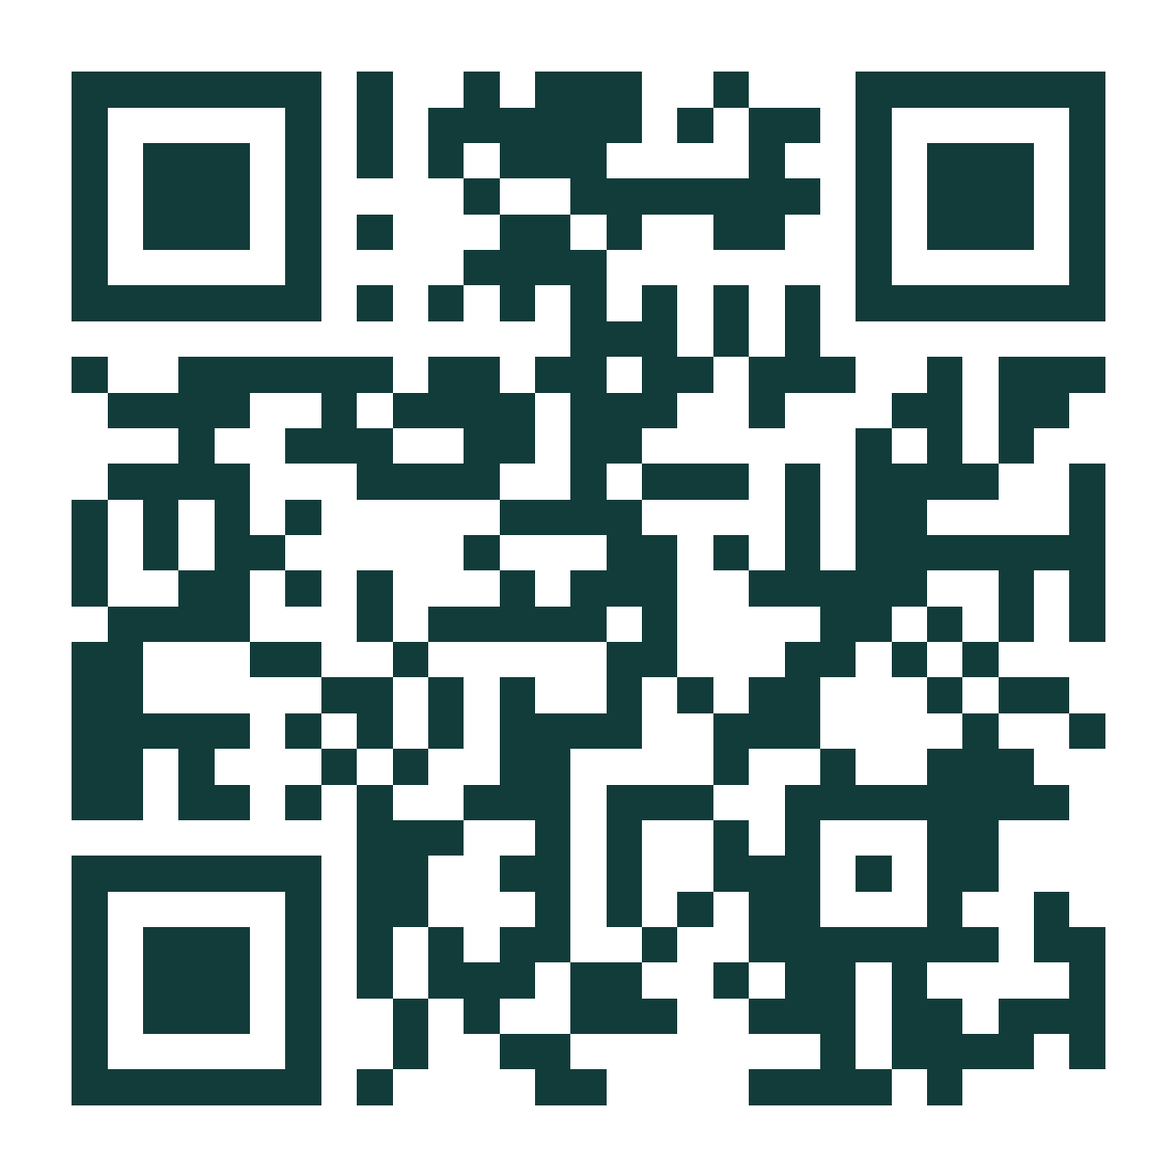
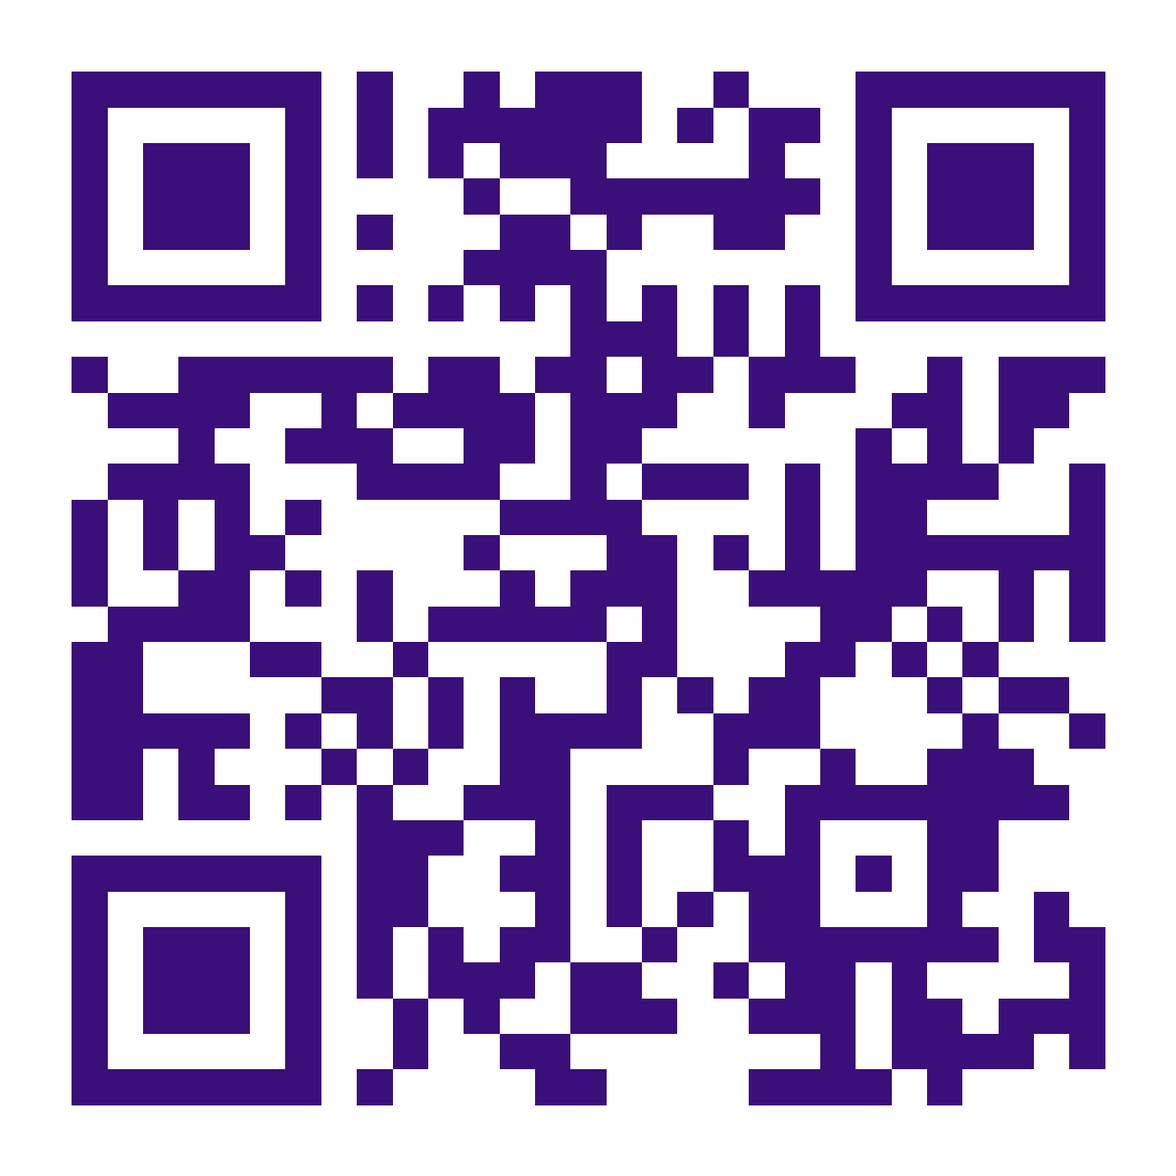
Paleta morada de la marca ESCALA
- Colores en variables: --marca (morado), acento lila y superficies
  oscuras con degradado morado; verde y rojo se mantienen para
  entradas/salidas y ganancia/pérdida.
- Ícono, color del navegador y QR en morado.

diff --git a/src/estilos.css b/src/estilos.css
@@ -1,19 +1,30 @@
 :root {
-  --tinta: #123c3a;
-  --tinta-2: #3d5f5c;
-  --tinta-3: #6e8784;
-  --fondo: #f6f1e7;
-  --papel: #fffdf8;
-  --linea: #e4dccb;
-  --sol: #ffc94a;
-  --sol-claro: #fff1c7;
+  /* Marca ESCALA: morado. Para ajustar el tono, cambia --marca (y --marca-oscura, su sombra). */
+  --marca: #6d28d9;
+  --marca-oscura: #4c1d95;
+  --tinta: #26124f;          /* textos */
+  --superficie-marca: linear-gradient(160deg, #5b21b6 0%, #3b0f7a 100%); /* cabeceras y tarjetas oscuras */
+  --tinta-2: #4f4270;
+  --tinta-3: #7f7699;
+  --acento: #c4a5ff;         /* lila: avance, precio destacado, opción elegida */
+  --acento-oscuro: #9d74f0;
+  --acento-claro: #efe6ff;
+  --sobre-oscuro: #d8ccf2;   /* texto claro sobre fondo morado */
+  --sobre-oscuro-2: #bba9e0;
+  --fondo: #f5f2fa;
+  --papel: #fdfcff;
+  --linea: #e3dcef;
+  --pista: #ece6f5;
+  --desactivado: #c9c1d9;
+  --desactivado-texto: #f4f1f9;
+  /* Colores con significado: se mantienen */
   --verde: #1f8a5b;
   --verde-claro: #e2f4ea;
   --rojo: #c2412d;
   --rojo-claro: #fbe6e1;
   --ambar-claro: #fff4dc;
   --radio: 16px;
-  --sombra: 0 2px 0 rgba(18, 60, 58, 0.08);
+  --sombra: 0 2px 0 rgba(38, 18, 79, 0.08);
   font-family: 'Nunito', system-ui, -apple-system, 'Segoe UI', Roboto, sans-serif;
   color: var(--tinta);
   background: var(--fondo);
@@ -34,7 +45,7 @@ h1, h2, p { margin: 0; }
 
 /* ---------- Logo ---------- */
 .logo { display: inline-flex; align-items: center; gap: 8px; font-weight: 900; letter-spacing: 0.08em; font-size: 16px; }
-.logo svg { width: 24px; height: 24px; fill: var(--sol); }
+.logo svg { width: 24px; height: 24px; fill: var(--acento); }
 .logo--grande { font-size: 28px; gap: 12px; }
 .logo--grande svg { width: 44px; height: 44px; }
 
@@ -42,10 +53,10 @@ h1, h2, p { margin: 0; }
 .inicio {
   min-height: 100dvh; display: flex; flex-direction: column; gap: 18px;
   padding: 36px 24px calc(24px + env(safe-area-inset-bottom));
-  background: var(--tinta); color: var(--papel);
+  background: var(--superficie-marca); color: var(--papel);
 }
 .inicio h1 { font-size: 36px; line-height: 1.1; font-weight: 900; margin-top: 20px; }
-.inicio p { color: #cfe0dc; }
+.inicio p { color: var(--sobre-oscuro); }
 .inicio__lista { list-style: none; padding: 0; margin: 0; display: grid; gap: 10px; }
 .inicio__lista li {
   display: flex; gap: 12px; align-items: center; font-weight: 700;
@@ -53,13 +64,13 @@ h1, h2, p { margin: 0; }
 }
 .inicio__lista span { font-size: 24px; }
 .inicio__nota { font-size: 15px; margin-top: auto !important; }
-.inicio .btn--principal { background: var(--sol); color: var(--tinta); }
+.inicio .btn--principal { background: var(--acento); color: var(--tinta); }
 
 /* ---------- Marco ---------- */
 .marco { min-height: 100dvh; display: flex; flex-direction: column; }
 .barra {
   position: sticky; top: 0; z-index: 5; display: flex; align-items: center; gap: 12px;
-  padding: 10px 16px; background: var(--tinta); color: var(--papel);
+  padding: 10px 16px; background: var(--superficie-marca); color: var(--papel);
 }
 .btn-atras {
   flex: none; width: 48px; height: 48px; border-radius: 12px; border: 0;
@@ -68,16 +79,16 @@ h1, h2, p { margin: 0; }
 .btn-atras--vacio { background: none; }
 .barra__centro { flex: 1; min-width: 0; }
 .barra__texto { display: flex; justify-content: space-between; gap: 8px; font-size: 14px; margin-bottom: 6px; }
-.barra__texto span { color: #b9cfcb; }
+.barra__texto span { color: var(--sobre-oscuro-2); }
 .barra__texto strong { white-space: nowrap; overflow: hidden; text-overflow: ellipsis; }
 .avance { display: grid; grid-template-columns: repeat(7, 1fr); gap: 4px; }
 .avance span { height: 6px; border-radius: 3px; background: rgba(255, 255, 255, 0.18); }
-.avance span.hecho { background: var(--sol); }
+.avance span.hecho { background: var(--acento); }
 
 .contenido { flex: 1; padding: 22px 18px 28px; display: flex; flex-direction: column; gap: 18px; }
 .pie {
   position: sticky; bottom: 0; z-index: 5; padding: 12px 18px calc(12px + env(safe-area-inset-bottom));
-  background: linear-gradient(to top, var(--fondo) 75%, rgba(246, 241, 231, 0));
+  background: linear-gradient(to top, var(--fondo) 75%, rgba(245, 242, 250, 0));
 }
 .pie__aviso { text-align: center; font-size: 15px; color: var(--tinta-2); margin-bottom: 8px; }
 
@@ -93,9 +104,9 @@ h1, h2, p { margin: 0; }
   display: block; width: 100%; min-height: 58px; border: 0; border-radius: var(--radio);
   font-weight: 800; font-size: 19px; padding: 14px 18px;
 }
-.btn--principal { background: var(--tinta); color: var(--papel); box-shadow: 0 4px 0 #0a2423; }
-.btn--principal:active { transform: translateY(2px); box-shadow: 0 2px 0 #0a2423; }
-.btn--principal:disabled { background: #b9c4bf; box-shadow: none; color: #eef1ef; cursor: not-allowed; }
+.btn--principal { background: var(--marca); color: #fff; box-shadow: 0 4px 0 var(--marca-oscura); }
+.btn--principal:active { transform: translateY(2px); box-shadow: 0 2px 0 var(--marca-oscura); }
+.btn--principal:disabled { background: var(--desactivado); box-shadow: none; color: var(--desactivado-texto); cursor: not-allowed; }
 .btn--suave { background: var(--papel); border: 2px solid var(--linea); color: var(--tinta); }
 .btn--texto { background: none; color: var(--tinta-3); font-weight: 700; min-height: 48px; }
 .btn--whatsapp { background: #1fa855; color: #fff; box-shadow: 0 4px 0 #147a3c; }
@@ -107,9 +118,9 @@ h1, h2, p { margin: 0; }
   background: var(--papel); border: 2px solid var(--linea); border-radius: var(--radio);
   padding: 18px 16px; font-weight: 800; font-size: 20px; box-shadow: var(--sombra);
 }
-.rubro:active { background: var(--sol-claro); }
-.rubro--elegido { border-color: var(--tinta); }
-.rubro__emoji { font-size: 36px; width: 52px; height: 52px; display: grid; place-items: center; background: var(--sol-claro); border-radius: 14px; }
+.rubro:active { background: var(--acento-claro); }
+.rubro--elegido { border-color: var(--marca); }
+.rubro__emoji { font-size: 36px; width: 52px; height: 52px; display: grid; place-items: center; background: var(--acento-claro); border-radius: 14px; }
 .rubro__nombre { flex: 1; }
 .rubro__flecha { color: var(--tinta-3); }
 
@@ -119,13 +130,13 @@ h1, h2, p { margin: 0; }
   color: var(--tinta); font-weight: 800; text-decoration: underline; text-underline-offset: 4px;
 }
 .ayuda__icono {
-  width: 28px; height: 28px; border-radius: 50%; background: var(--sol); display: grid; place-items: center;
+  width: 28px; height: 28px; border-radius: 50%; background: var(--acento); display: grid; place-items: center;
   font-weight: 900; text-decoration: none;
 }
 .ayuda__caja {
-  margin-top: 8px; background: var(--sol-claro); border-radius: var(--radio); padding: 14px 16px; font-size: 17px;
+  margin-top: 8px; background: var(--acento-claro); border-radius: var(--radio); padding: 14px 16px; font-size: 17px;
 }
-.aprende { border-left: 5px solid var(--sol); background: var(--papel); border-radius: 0 var(--radio) var(--radio) 0; padding: 12px 14px; font-size: 16px; }
+.aprende { border-left: 5px solid var(--acento); background: var(--papel); border-radius: 0 var(--radio) var(--radio) 0; padding: 12px 14px; font-size: 16px; }
 .aprende__etiqueta { display: block; font-size: 12px; font-weight: 900; text-transform: uppercase; letter-spacing: 0.08em; color: var(--tinta-3); margin-bottom: 2px; }
 
 /* ---------- Campos ---------- */
@@ -136,7 +147,7 @@ h1, h2, p { margin: 0; }
   display: flex; align-items: center; gap: 8px; background: #fff; border: 2px solid var(--linea);
   border-radius: 12px; padding: 0 14px; min-height: 52px;
 }
-.campo__caja:focus-within { border-color: var(--tinta); box-shadow: 0 0 0 3px var(--sol-claro); }
+.campo__caja:focus-within { border-color: var(--marca); box-shadow: 0 0 0 3px var(--acento-claro); }
 .campo__prefijo, .campo__sufijo { color: var(--tinta-3); font-weight: 700; }
 .campo input { flex: 1; width: 100%; min-width: 0; border: 0; outline: 0; background: none; font-size: 20px; font-weight: 800; padding: 10px 0; }
 .campo--grande .campo__caja { min-height: 72px; }
@@ -145,13 +156,13 @@ h1, h2, p { margin: 0; }
 /* ---------- Lista de items ---------- */
 .lista { display: grid; gap: 10px; }
 .item { background: var(--papel); border: 2px solid var(--linea); border-radius: var(--radio); box-shadow: var(--sombra); }
-.item--marcado { border-color: var(--tinta); background: #fff; }
+.item--marcado { border-color: var(--marca); background: #fff; }
 .item__fila { display: flex; align-items: center; gap: 12px; padding: 10px 12px; min-height: 60px; }
 .item__check {
   flex: none; width: 36px; height: 36px; border-radius: 10px; border: 2px solid var(--tinta-3);
   background: #fff; font-weight: 900; font-size: 20px; display: grid; place-items: center; padding: 0;
 }
-.item--marcado .item__check { background: var(--tinta); border-color: var(--tinta); color: var(--sol); }
+.item--marcado .item__check { background: var(--marca); border-color: var(--marca); color: #fff; }
 .item__nombre { flex: 1; font-weight: 700; cursor: pointer; }
 .item__nombre-input {
   flex: 1; min-width: 0; border: 0; border-bottom: 2px solid var(--linea); background: none;
@@ -165,9 +176,9 @@ h1, h2, p { margin: 0; }
 
 .total {
   display: flex; justify-content: space-between; align-items: baseline; gap: 12px;
-  background: var(--tinta); color: var(--papel); border-radius: var(--radio); padding: 16px 18px; margin-top: 4px;
+  background: var(--superficie-marca); color: var(--papel); border-radius: var(--radio); padding: 16px 18px; margin-top: 4px;
 }
-.total strong { font-size: 26px; font-weight: 900; color: var(--sol); white-space: nowrap; }
+.total strong { font-size: 26px; font-weight: 900; color: var(--acento); white-space: nowrap; }
 
 /* ---------- Precio ---------- */
 .suma { background: var(--papel); border: 2px solid var(--linea); border-radius: var(--radio); padding: 6px 16px; }
@@ -177,14 +188,14 @@ h1, h2, p { margin: 0; }
 
 .chips { display: grid; grid-template-columns: repeat(4, 1fr); gap: 8px; }
 .chip { min-height: 52px; border-radius: 12px; border: 2px solid var(--linea); background: var(--papel); font-weight: 900; font-size: 19px; }
-.chip--activo { background: var(--sol); border-color: var(--tinta); }
+.chip--activo { background: var(--acento); border-color: var(--marca); }
 .ajuste { display: flex; align-items: center; justify-content: center; gap: 20px; }
 .ajuste__btn { width: 56px; height: 56px; border-radius: 50%; border: 2px solid var(--tinta); background: #fff; font-size: 28px; font-weight: 900; }
 .ajuste__valor { font-size: 34px; font-weight: 900; min-width: 100px; text-align: center; }
 
 .resultado {
   display: grid; justify-items: center; gap: 2px; text-align: center; padding: 20px;
-  background: var(--sol); border-radius: 20px; box-shadow: 0 4px 0 #d9a21f;
+  background: var(--acento); border-radius: 20px; box-shadow: 0 4px 0 var(--acento-oscuro);
 }
 .resultado > span:first-child { font-weight: 800; }
 .resultado strong { font-size: 48px; line-height: 1.05; font-weight: 900; }
@@ -205,11 +216,11 @@ h1, h2, p { margin: 0; }
 .mes { background: var(--papel); border: 2px solid var(--linea); border-radius: var(--radio); padding: 14px 16px; display: grid; gap: 10px; }
 .mes__cabeza { display: flex; align-items: center; justify-content: space-between; gap: 10px; font-size: 20px; }
 .stepper { display: flex; align-items: center; border: 2px solid var(--tinta); border-radius: 12px; overflow: hidden; background: #fff; }
-.stepper button { width: 48px; height: 48px; border: 0; background: var(--sol-claro); font-size: 24px; font-weight: 900; }
+.stepper button { width: 48px; height: 48px; border: 0; background: var(--acento-claro); font-size: 24px; font-weight: 900; }
 .stepper input { width: 64px; border: 0; text-align: center; font-size: 20px; font-weight: 900; outline: 0; background: none; }
 .mes__cuentas { display: grid; grid-template-columns: 1fr auto; gap: 2px 12px; font-size: 15px; color: var(--tinta-2); }
 .mes__cuentas .pos, .mes__cuentas .neg { font-weight: 800; text-align: right; white-space: nowrap; }
-.mes__barra { height: 14px; background: #eee7d8; border-radius: 7px; overflow: hidden; }
+.mes__barra { height: 14px; background: var(--pista); border-radius: 7px; overflow: hidden; }
 .mes__barra span { display: block; height: 100%; border-radius: 7px; transition: width 0.2s; }
 .mes__barra--pos span { background: var(--verde); }
 .mes__barra--neg span { background: var(--rojo); }
@@ -219,10 +230,10 @@ h1, h2, p { margin: 0; }
 /* ---------- Resumen ---------- */
 .resumen { background: #fff; border-radius: 22px; padding: 18px; display: grid; gap: 14px; box-shadow: 0 6px 0 var(--linea); border: 2px solid var(--linea); }
 .resumen__cabeza { display: flex; align-items: center; gap: 12px; }
-.resumen__emoji { font-size: 32px; width: 54px; height: 54px; display: grid; place-items: center; background: var(--sol-claro); border-radius: 14px; flex: none; }
+.resumen__emoji { font-size: 32px; width: 54px; height: 54px; display: grid; place-items: center; background: var(--acento-claro); border-radius: 14px; flex: none; }
 .resumen__sobre { font-size: 14px; font-weight: 800; color: var(--tinta-3); }
 .resumen h1 { font-size: 22px; font-weight: 900; line-height: 1.15; }
-.resumen__destacado { display: grid; justify-items: center; text-align: center; padding: 14px; background: var(--sol); border-radius: 16px; font-size: 15px; }
+.resumen__destacado { display: grid; justify-items: center; text-align: center; padding: 14px; background: var(--acento); border-radius: 16px; font-size: 15px; }
 .resumen__destacado > span:first-child { font-weight: 800; font-size: 16px; }
 .resumen__destacado strong { font-size: 42px; font-weight: 900; line-height: 1.1; }
 .resumen__grilla { display: grid; grid-template-columns: 1fr 1fr; gap: 8px; }
@@ -235,11 +246,11 @@ h1, h2, p { margin: 0; }
 .acciones { display: grid; gap: 10px; }
 
 /* ---------- Entrada ---------- */
-.cargando { min-height: 100dvh; display: grid; place-items: center; background: var(--tinta); color: var(--papel); }
+.cargando { min-height: 100dvh; display: grid; place-items: center; background: var(--superficie-marca); color: var(--papel); }
 .inicio--centrado { justify-content: center; text-align: center; align-items: center; }
 .inicio__botones { margin-top: auto; display: grid; gap: 10px; }
 .btn--claro { background: rgba(255, 255, 255, 0.1); color: var(--papel); border: 2px solid rgba(255, 255, 255, 0.35); }
-.modo-prueba { background: var(--sol); color: var(--tinta) !important; border-radius: 10px; padding: 8px 12px; font-size: 14px; font-weight: 800; }
+.modo-prueba { background: var(--acento); color: var(--tinta) !important; border-radius: 10px; padding: 8px 12px; font-size: 14px; font-weight: 800; }
 .btn--izq { text-align: left; padding-left: 0; font-size: 16px; text-decoration: underline; text-underline-offset: 3px; }
 .campo--texto input { font-size: 26px; }
 .campo input[type='password'] { letter-spacing: 0.2em; }
@@ -248,30 +259,30 @@ h1, h2, p { margin: 0; }
   background: var(--papel); border: 2px solid var(--linea); border-radius: var(--radio); font-size: 16px; font-weight: 700;
 }
 .casilla .item__check { margin-top: 2px; }
-.casilla--marcada { border-color: var(--tinta); background: #fff; }
-.casilla--marcada .item__check { background: var(--tinta); border-color: var(--tinta); color: var(--sol); }
+.casilla--marcada { border-color: var(--marca); background: #fff; }
+.casilla--marcada .item__check { background: var(--marca); border-color: var(--marca); color: #fff; }
 .mensaje-error { background: var(--rojo-claro); color: #8a2a1b; border-radius: 12px; padding: 12px 14px; font-weight: 700; font-size: 16px; }
 .confirmar { display: grid; gap: 10px; background: var(--rojo-claro); border: 2px solid #eeb3a7; border-radius: var(--radio); padding: 14px; }
 .btn--peligro { background: var(--rojo); color: #fff; }
 .btn--chico { width: auto; min-height: 44px; padding: 8px 16px; font-size: 16px; }
 
-.guardado { font-size: 13px; font-weight: 700; color: #b9cfcb; white-space: nowrap; }
-.guardado--pendiente { color: var(--sol); }
+.guardado { font-size: 13px; font-weight: 700; color: var(--sobre-oscuro-2); white-space: nowrap; }
+.guardado--pendiente { color: var(--acento); }
 
 /* ---------- Lobby ---------- */
 .lobby { min-height: 100dvh; }
-.lobby__cabeza { background: var(--tinta); color: var(--papel); padding: 14px 18px 22px; display: grid; gap: 8px; }
+.lobby__cabeza { background: var(--superficie-marca); color: var(--papel); padding: 14px 18px 22px; display: grid; gap: 8px; }
 .lobby__fila { display: flex; justify-content: space-between; align-items: center; }
 .lobby__perfil {
-  width: 44px; height: 44px; border-radius: 50%; border: 2px solid var(--sol); background: rgba(255, 255, 255, 0.1);
-  color: var(--sol); font-weight: 900; font-size: 20px; display: grid; place-items: center;
+  width: 44px; height: 44px; border-radius: 50%; border: 2px solid var(--acento); background: rgba(255, 255, 255, 0.1);
+  color: var(--acento); font-weight: 900; font-size: 20px; display: grid; place-items: center;
 }
-.lobby__perfil--grande { width: 60px; height: 60px; font-size: 28px; background: var(--tinta); flex: none; }
-.lobby__hola { color: #cfe0dc; font-weight: 700; margin-top: 6px !important; }
+.lobby__perfil--grande { width: 60px; height: 60px; font-size: 28px; background: var(--marca); flex: none; }
+.lobby__hola { color: var(--sobre-oscuro); font-weight: 700; margin-top: 6px !important; }
 .lobby__negocio { display: flex; gap: 12px; align-items: center; }
 .lobby__negocio h1 { font-size: 26px; font-weight: 900; line-height: 1.1; overflow-wrap: anywhere; }
-.lobby__negocio span { color: #cfe0dc; font-size: 15px; }
-.lobby__emoji { font-size: 30px; width: 54px; height: 54px; flex: none; display: grid; place-items: center; background: rgba(255, 201, 74, 0.18); border-radius: 14px; }
+.lobby__negocio span { color: var(--sobre-oscuro); font-size: 15px; }
+.lobby__emoji { font-size: 30px; width: 54px; height: 54px; flex: none; display: grid; place-items: center; background: rgba(196, 165, 255, 0.2); border-radius: 14px; }
 
 .aviso-hecho { display: flex; gap: 10px; align-items: center; background: var(--verde-claro); border: 2px solid #a9dcc0; border-radius: var(--radio); padding: 12px 14px; font-size: 16px; }
 .aviso-hecho span { flex: 1; }
@@ -292,18 +303,18 @@ h1, h2, p { margin: 0; }
   display: flex; align-items: center; gap: 12px; width: 100%; text-align: left; padding: 12px 14px; min-height: 76px;
   background: var(--papel); border: 2px solid var(--linea); border-radius: var(--radio); box-shadow: var(--sombra);
 }
-.apartado__icono { flex: none; width: 46px; height: 46px; border-radius: 12px; display: grid; place-items: center; font-size: 24px; background: var(--sol-claro); }
+.apartado__icono { flex: none; width: 46px; height: 46px; border-radius: 12px; display: grid; place-items: center; font-size: 24px; background: var(--acento-claro); }
 .apartado--hecho .apartado__icono { background: var(--verde); color: #fff; font-weight: 900; }
 .apartado--bloqueado { opacity: 0.72; }
-.apartado--bloqueado .apartado__icono { background: #ece6d9; font-size: 20px; }
-.apartado--siguiente { border-color: var(--tinta); background: #fff; box-shadow: 0 4px 0 var(--tinta); }
+.apartado--bloqueado .apartado__icono { background: var(--pista); font-size: 20px; }
+.apartado--siguiente { border-color: var(--marca); background: #fff; box-shadow: 0 4px 0 var(--marca); }
 .apartado--caja { margin-top: 8px; border-style: dashed; }
 .apartado__texto { flex: 1; min-width: 0; display: grid; gap: 2px; }
 .apartado__nombre { font-weight: 900; font-size: 18px; }
 .apartado__num { color: var(--tinta-3); }
 .apartado__detalle { font-size: 15px; color: var(--tinta-2); }
 .apartado--hecho .apartado__detalle { color: var(--verde); font-weight: 700; }
-.apartado__chip { flex: none; background: var(--sol); font-weight: 900; font-size: 13px; border-radius: 99px; padding: 6px 10px; }
+.apartado__chip { flex: none; background: var(--acento); font-weight: 900; font-size: 13px; border-radius: 99px; padding: 6px 10px; }
 .apartado__flecha { flex: none; color: var(--tinta-3); font-weight: 800; }
 
 .perfil__cabeza { display: flex; gap: 14px; align-items: center; }
@@ -315,9 +326,9 @@ h1, h2, p { margin: 0; }
 .fila-opcion small { color: var(--tinta-3); font-weight: 700; }
 
 /* ---------- Control de caja ---------- */
-.saldo { display: grid; justify-items: center; text-align: center; gap: 2px; padding: 18px; background: var(--tinta); color: var(--papel); border-radius: 20px; }
-.saldo > span { font-weight: 800; color: #cfe0dc; }
-.saldo strong { font-size: 44px; font-weight: 900; line-height: 1.1; color: var(--sol); }
+.saldo { display: grid; justify-items: center; text-align: center; gap: 2px; padding: 18px; background: var(--superficie-marca); color: var(--papel); border-radius: 20px; }
+.saldo > span { font-weight: 800; color: var(--sobre-oscuro); }
+.saldo strong { font-size: 44px; font-weight: 900; line-height: 1.1; color: var(--acento); }
 .saldo small { font-size: 14px; color: #ffd9d1; }
 .saldo--neg strong { color: #ff9c87; }
 .caja__botones { display: grid; grid-template-columns: 1fr 1fr; gap: 10px; }
@@ -362,12 +373,12 @@ h1, h2, p { margin: 0; }
 .chip--fecha input { border: 0; background: none; font: inherit; font-size: 15px; font-weight: 800; width: 100%; min-width: 0; }
 
 @media (min-width: 521px) {
-  body { background: #e9e1d0; }
+  body { background: #e7e0f2; }
   #root { background: var(--fondo); box-shadow: 0 0 0 1px var(--linea); }
 }
 .campo-doc { position: relative; }
 .campo-doc .campo__caja { padding-right: 96px; }
-.campo-doc__ver { position: absolute; right: 10px; top: 50%; transform: translateY(-50%); min-height: 48px; padding: 0 14px; border-radius: 10px; border: 2px solid var(--linea); background: var(--sol-claro); font-weight: 800; }
+.campo-doc__ver { position: absolute; right: 10px; top: 50%; transform: translateY(-50%); min-height: 48px; padding: 0 14px; border-radius: 10px; border: 2px solid var(--linea); background: var(--acento-claro); font-weight: 800; }
 
 /* ---------- Lobby por grupos ---------- */
 .grupo__titulo { font-size: 13px; font-weight: 900; text-transform: uppercase; letter-spacing: 0.08em; color: var(--tinta-3); margin: 8px 2px 0; }
@@ -386,8 +397,8 @@ h1, h2, p { margin: 0; }
   width: 100%; min-height: 56px; border: 2px solid var(--linea); border-radius: 12px; background: #fff;
   font: inherit; font-weight: 700; font-size: 17px; padding: 0 12px; color: var(--tinta);
 }
-.saldo__nota { color: #cfe0dc !important; }
-.saldo--claro { background: var(--sol-claro); color: var(--tinta); }
+.saldo__nota { color: var(--sobre-oscuro) !important; }
+.saldo--claro { background: var(--acento-claro); color: var(--tinta); }
 .saldo--claro > span, .saldo--claro small { color: var(--tinta-2) !important; }
 .saldo--claro strong { color: var(--tinta); }
 
@@ -401,7 +412,7 @@ h1, h2, p { margin: 0; }
   background: var(--papel); border: 2px solid var(--linea); border-radius: var(--radio); box-shadow: var(--sombra);
 }
 .leccion-tarjeta--hecha .apartado__icono { background: var(--verde); color: #fff; font-weight: 900; }
-.leccion-tarjeta--siguiente { border-color: var(--tinta); background: #fff; box-shadow: 0 4px 0 var(--tinta); }
+.leccion-tarjeta--siguiente { border-color: var(--marca); background: #fff; box-shadow: 0 4px 0 var(--marca); }
 .leccion-tarjeta .apartado__nombre { font-size: 17px; }
 .leccion {
   display: grid; gap: 16px; justify-items: center; text-align: center; padding: 28px 20px; min-height: 52vh; align-content: center;
@@ -410,7 +421,7 @@ h1, h2, p { margin: 0; }
 .leccion__emoji { font-size: 64px; line-height: 1; }
 .leccion__titulo { font-size: 26px; font-weight: 900; line-height: 1.15; }
 .leccion p { font-size: 21px; line-height: 1.45; }
-.leccion strong { background: var(--sol-claro); padding: 0 3px; border-radius: 4px; }
+.leccion strong { background: var(--acento-claro); padding: 0 3px; border-radius: 4px; }
 .opciones { display: grid; gap: 10px; }
 .opcion { width: 100%; min-height: 60px; text-align: left; padding: 12px 16px; border-radius: var(--radio); border: 2px solid var(--linea); background: #fff; font-weight: 800; font-size: 18px; }
 .opcion:disabled { cursor: default; }
@@ -426,7 +437,7 @@ h1, h2, p { margin: 0; }
 .inv__botones { display: grid; grid-template-columns: repeat(3, 1fr); gap: 8px; }
 .inv__botones .btn { min-height: 76px; display: grid; justify-items: center; gap: 0; font-size: 16px; padding: 10px 4px; }
 .inv__botones .btn span { font-size: 24px; line-height: 1.1; font-weight: 900; }
-.btn--conteo { background: var(--tinta); color: #fff; box-shadow: 0 4px 0 #0a2423; }
+.btn--conteo { background: var(--tinta); color: #fff; box-shadow: 0 4px 0 #120828; }
 .movimiento__icono--conteo { background: var(--tinta-2); }
 .materiales { display: grid; gap: 8px; }
 .material {

diff --git a/index.html b/index.html
@@ -3,7 +3,7 @@
   <head>
     <meta charset="UTF-8" />
     <meta name="viewport" content="width=device-width, initial-scale=1.0, viewport-fit=cover" />
-    <meta name="theme-color" content="#123C3A" />
+    <meta name="theme-color" content="#5B21B6" />
     <meta name="description" content="Arma tu presupuesto, tu precio, tu meta de ventas y tu flujo de caja, paso a paso." />
     <link rel="icon" type="image/svg+xml" href="/icono.svg" />
     <link rel="preconnect" href="https://fonts.googleapis.com" />
